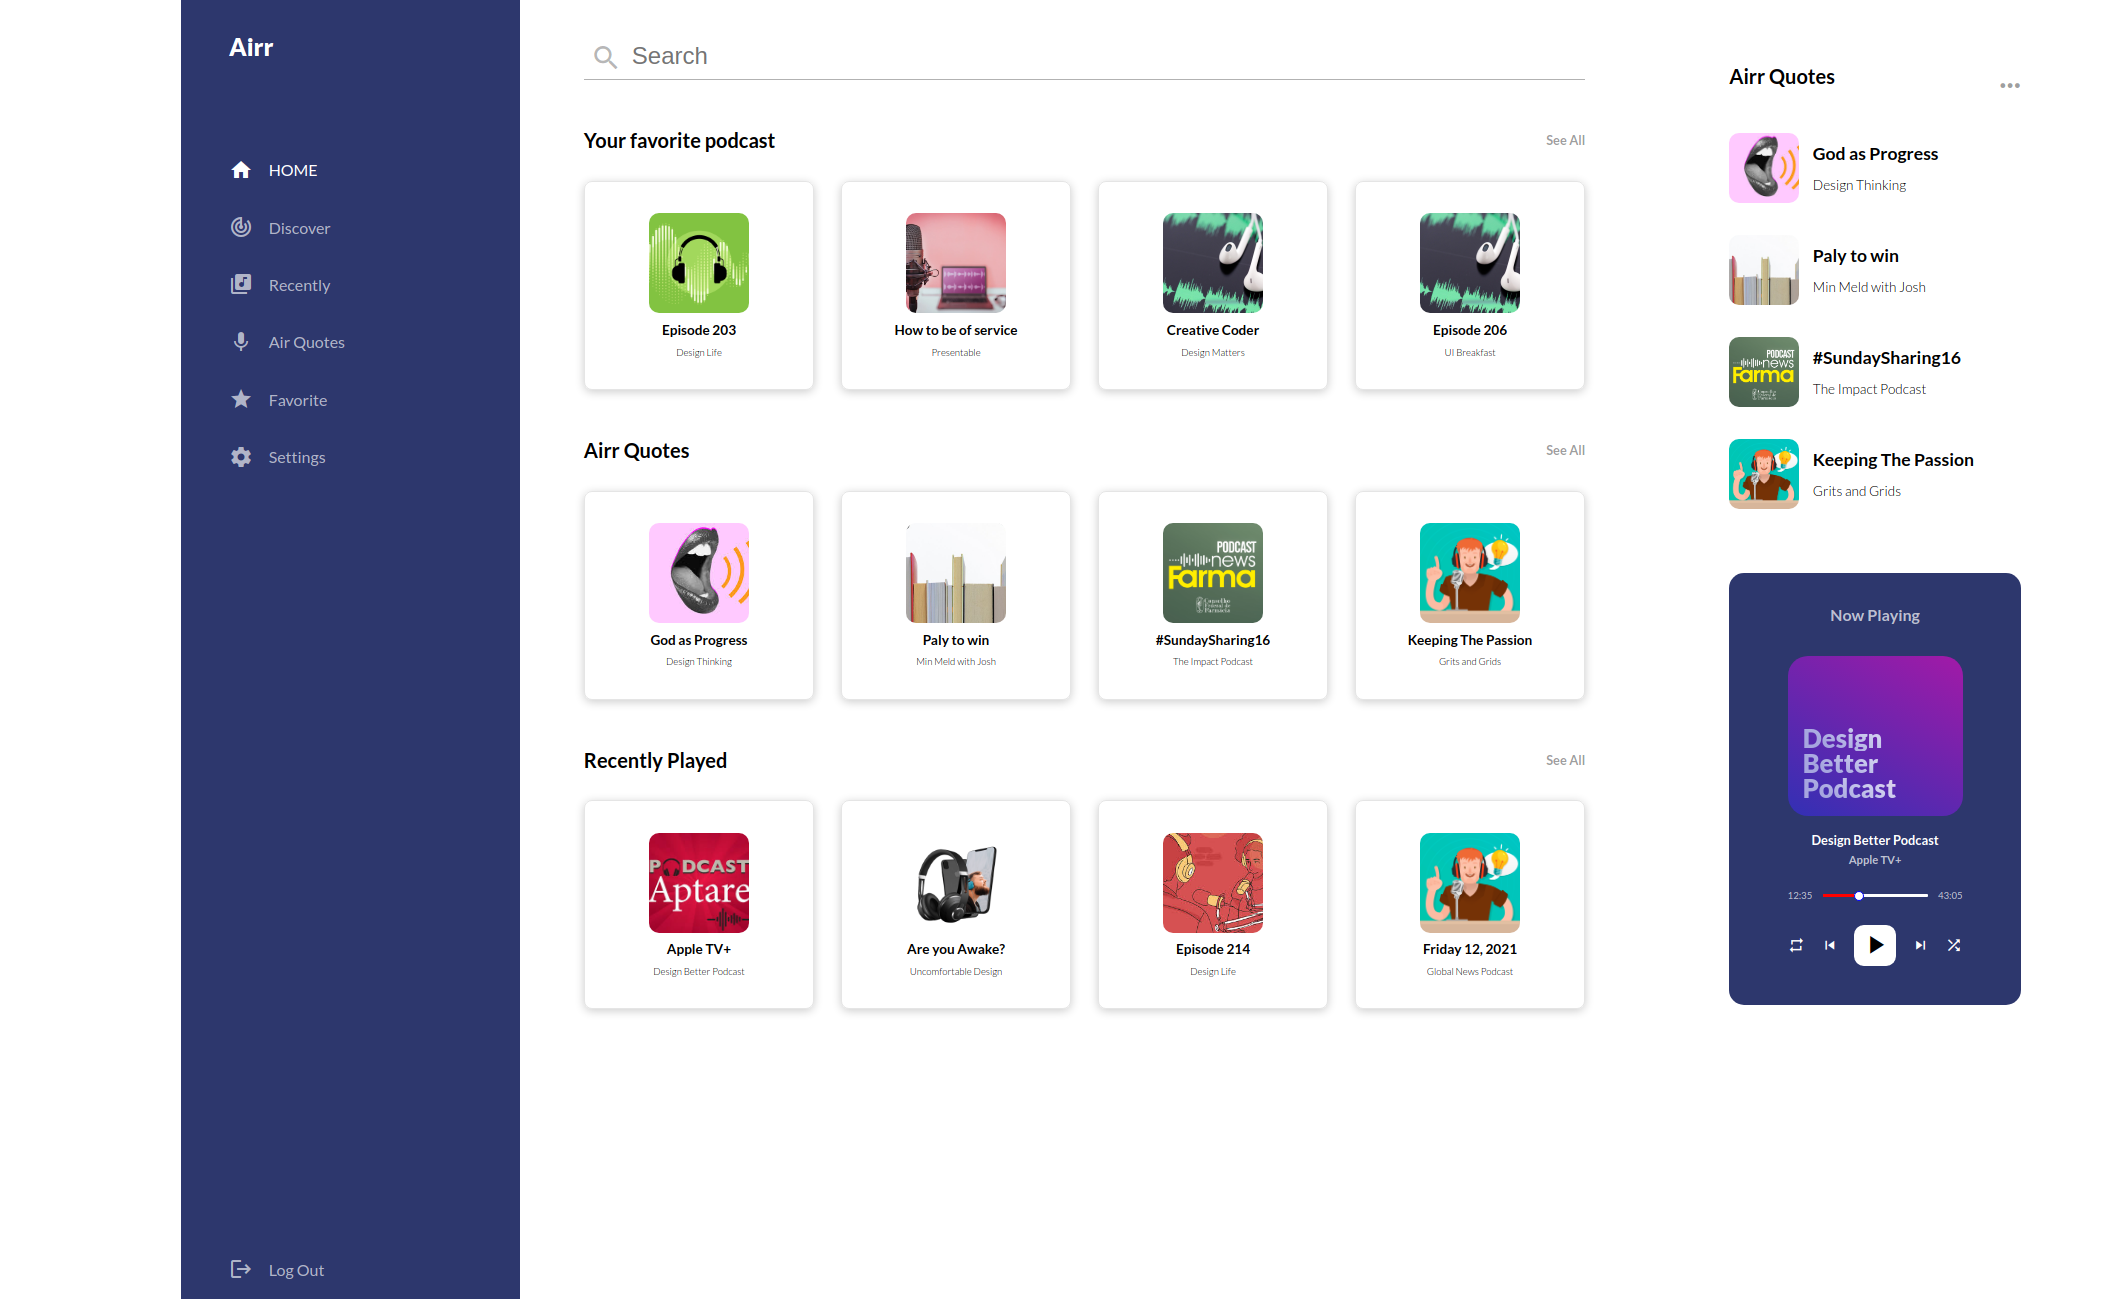
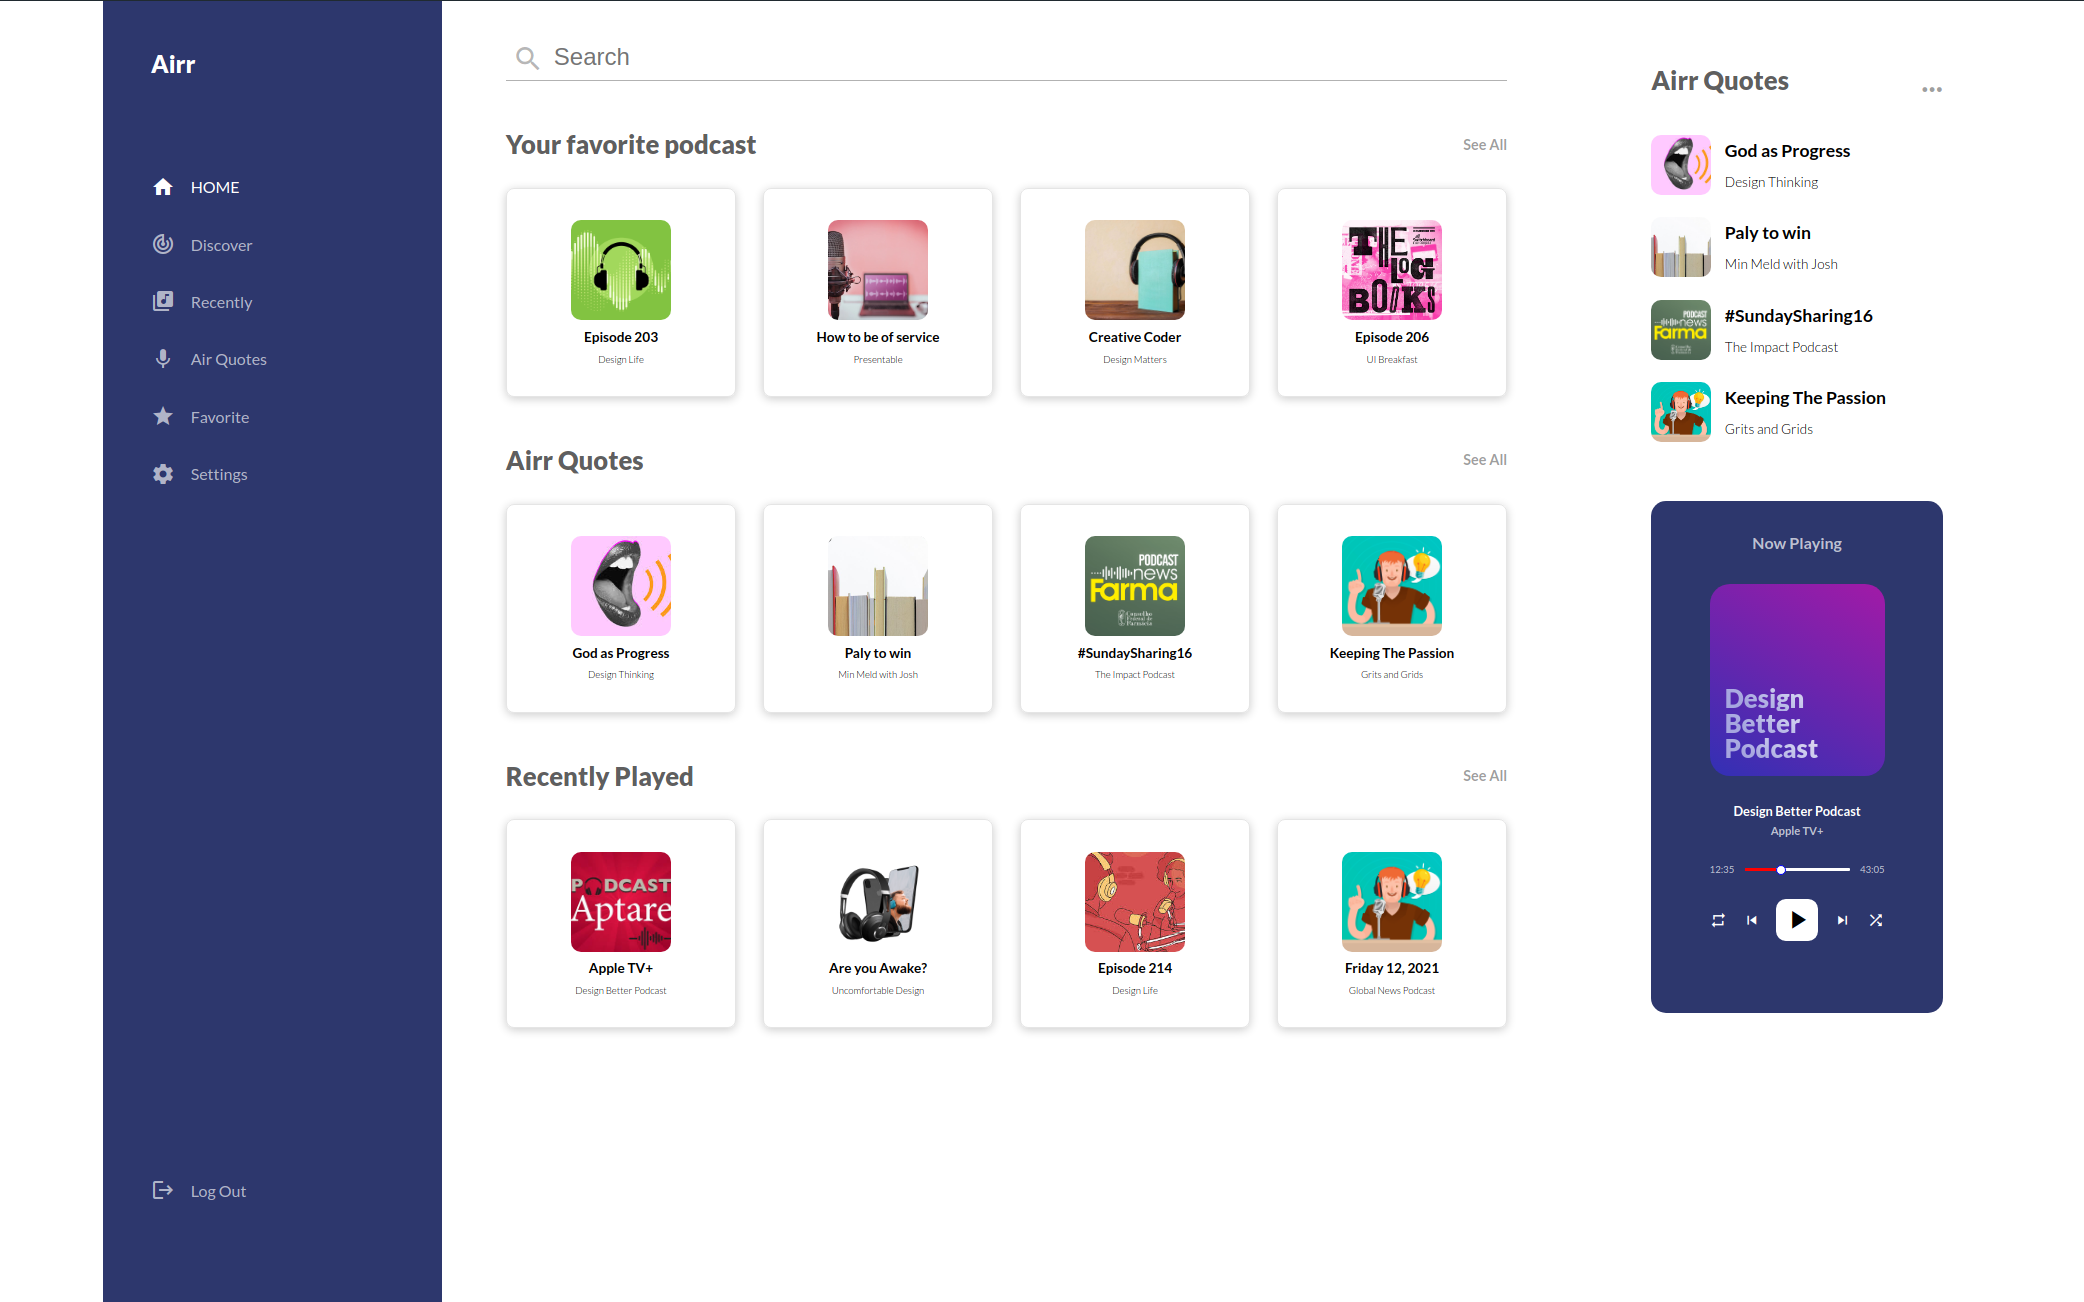
new image on readme

diff --git a/src/podcast.data.js b/src/podcast.data.js
@@ -22,14 +22,14 @@ const PODCAST_DATA = [
                 id: 3,
                 title: 'Creative Coder',
                 subtitle: 'Design Matters',
-                imageUrl: 'https://inovacaosebraeminas.com.br/wp-content/uploads/2018/01/o-que-e-podcast-como-funciona-e-por-que-ter-na-sua-empresa-1.jpg',
+                imageUrl: 'https://www.courant.com/resizer/1tBTIp8T-hrTXeO4S6X4vr-h-DQ=/1200x0/top/arc-anglerfish-arc2-prod-tronc.s3.amazonaws.com/public/KKVBPNHT5BCS3KQWUWDF7XOYLQ.jpg',
                 coluna: ''
             },
             {
                 id: 4,
                 title: 'Episode 206',
                 subtitle: 'UI Breakfast',
-                imageUrl: 'https://inovacaosebraeminas.com.br/wp-content/uploads/2018/01/o-que-e-podcast-como-funciona-e-por-que-ter-na-sua-empresa-1.jpg',
+                imageUrl: 'https://thumborcdn.acast.com/SHDOjCHRFnrTAJLYuKgT1Wee_64=/3000x3000/https://mediacdn.acast.com/assets/4c2a5066-57bf-42c9-af8c-15cb07ab732c/cover-image-k2ytbk65-the_log_books_podcast_logo.jpg',
                 coluna: ''
             }
         ]
